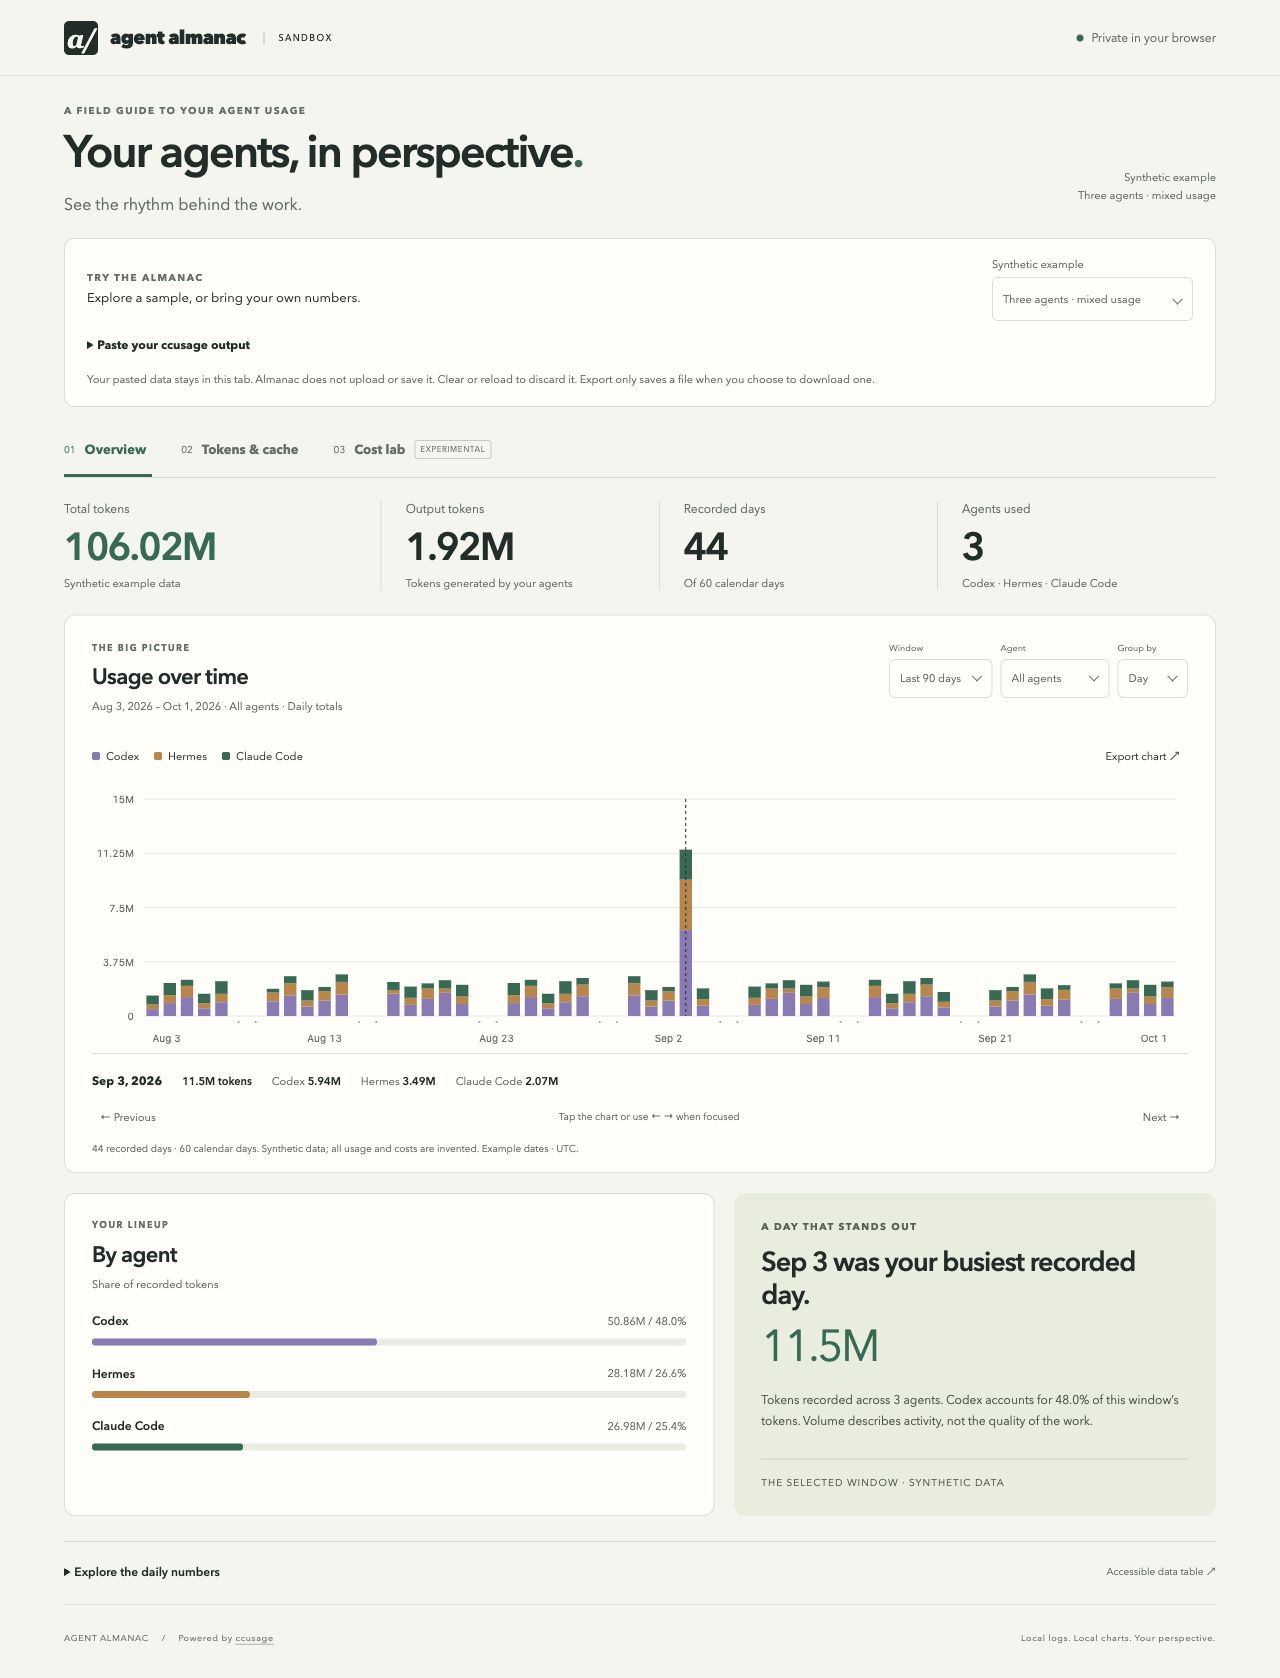
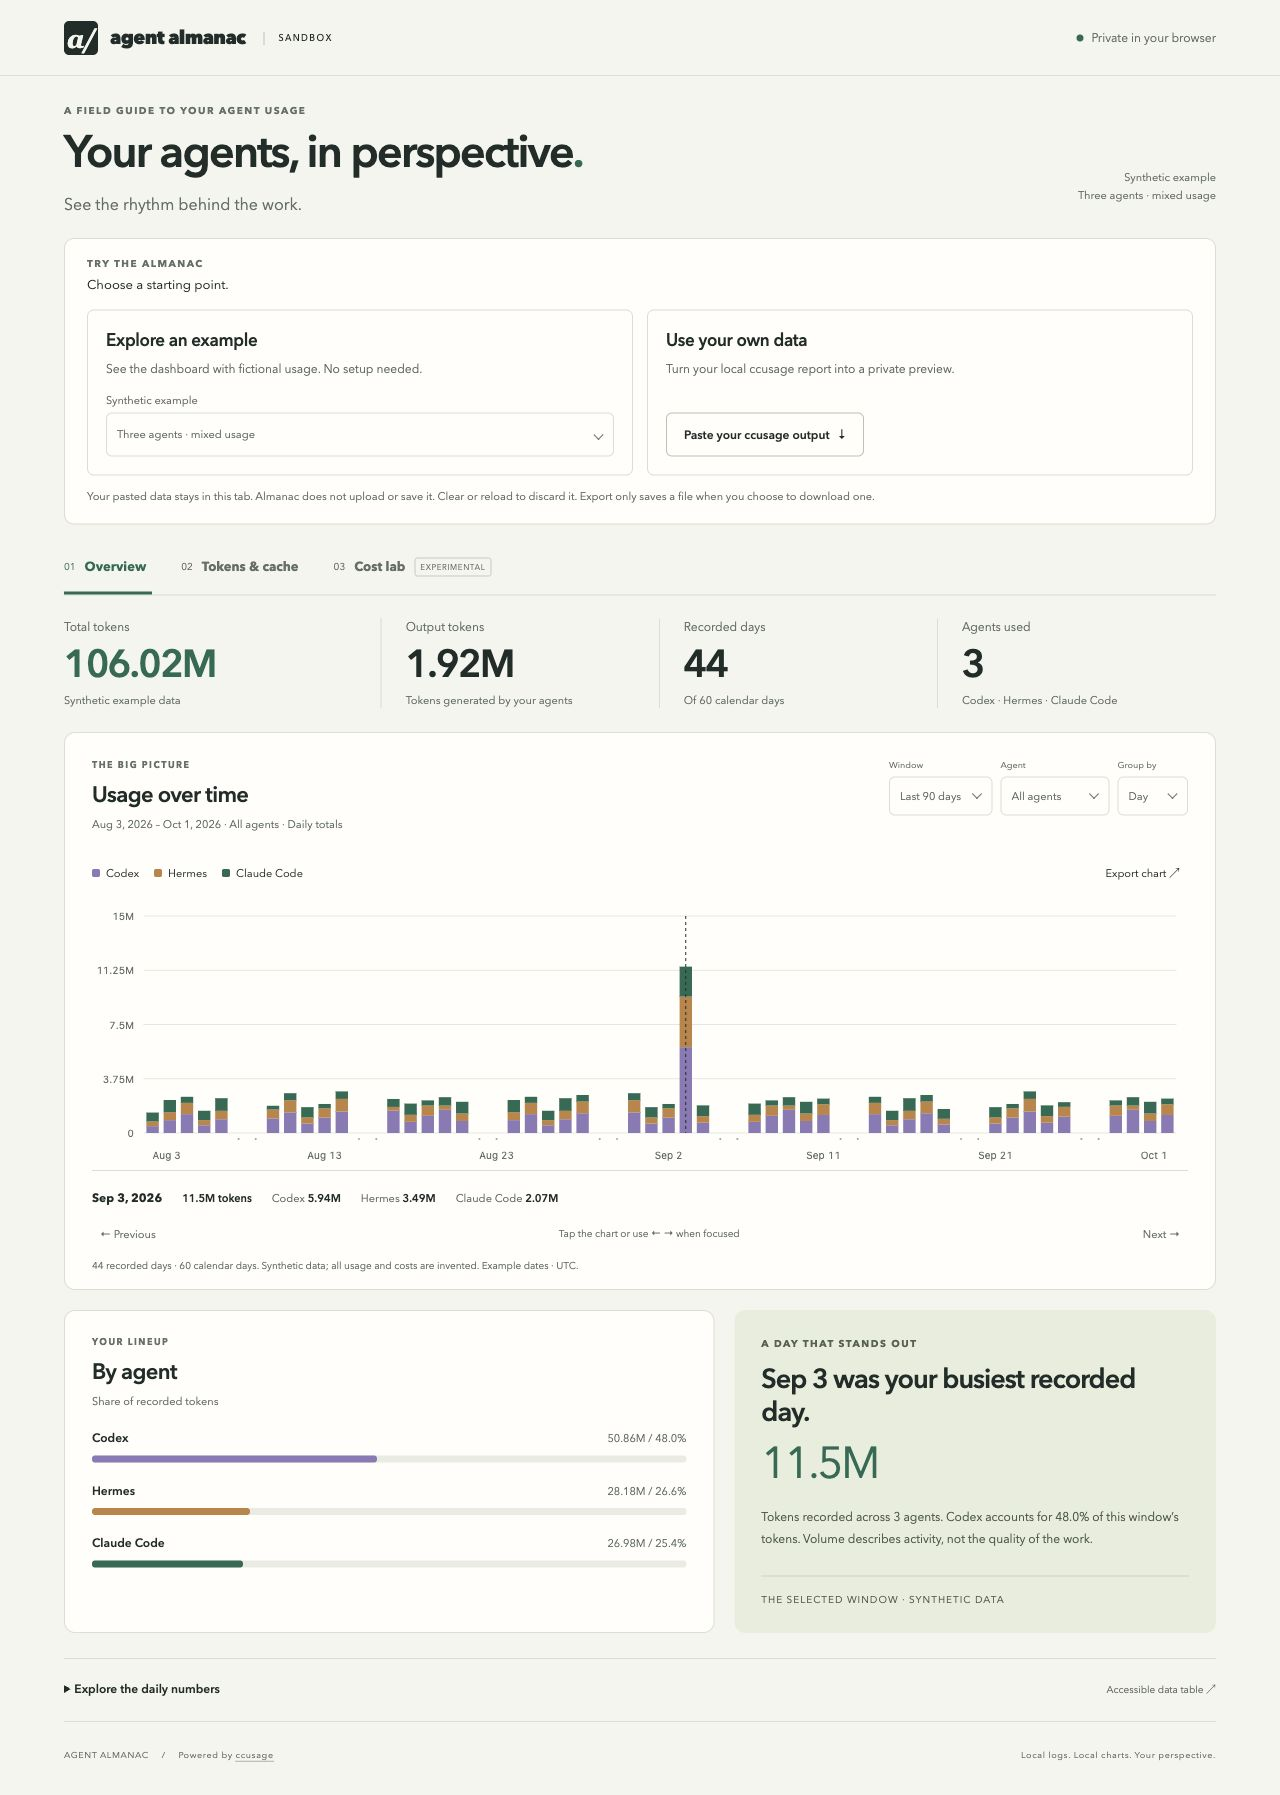
Improve sandbox onboarding and action feedback

diff --git a/test/sandbox.test.js b/test/sandbox.test.js
@@ -1,0 +1,119 @@
+import { afterEach, test, expect } from 'bun:test';
+import { readFileSync } from 'node:fs';
+import { setupSandbox } from '../public/sandbox.js';
+
+const html = readFileSync(new URL('../public/index.html', import.meta.url), 'utf8');
+const originalGlobals = new Map(['document', 'window', 'Option', 'navigator'].map(key => [key, Object.getOwnPropertyDescriptor(globalThis, key)]));
+
+afterEach(() => {
+  for (const [key, descriptor] of originalGlobals) {
+    if (descriptor) Object.defineProperty(globalThis, key, descriptor);
+    else delete globalThis[key];
+  }
+});
+
+function mount(clipboard, platform = 'Linux') {
+  // Fake only browser boundaries; report parsing and sandbox event handlers stay real.
+  const nodes = new Map([...html.matchAll(/\bid="([^"]+)"/g)].map(([, id]) => [id, {
+    value: '', hidden: true, textContent: '', attributes: {}, listeners: {},
+    addEventListener(type, listener) { this.listeners[type] = listener; },
+    replaceChildren(...options) { this.value = options[0]?.value ?? ''; },
+    setAttribute(key, value) { this.attributes[key] = value; },
+    focus() { this.focused = true; },
+    select() { this.selected = true; },
+  }]));
+  nodes.get('ccusage-command').value = html.match(/id="ccusage-command"[^>]*>([^<]+)<\/textarea>/)[1];
+  for (const [key, value] of Object.entries({
+    document: { getElementById: id => nodes.get(id) },
+    window: { addEventListener() {} },
+    Option: class { constructor(label, value) { this.label = label; this.value = value; } },
+    navigator: { clipboard, platform },
+  })) Object.defineProperty(globalThis, key, { configurable: true, writable: true, value });
+  setupSandbox(() => {});
+  return { node: id => nodes.get(id), click: id => nodes.get(id).listeners.click(), change: (id, value) => { nodes.get(id).value = value; nodes.get(id).listeners.change(); } };
+}
+
+test('the paste choice opens the form with keyboard focus and reports its expanded state', () => {
+  const ui = mount({});
+  expect(html).toContain('aria-controls="paste-panel"');
+  ui.click('paste-toggle');
+  expect(ui.node('paste-panel').hidden).toBe(false);
+  expect(ui.node('paste-toggle').attributes['aria-expanded']).toBe('true');
+  expect(ui.node('paste-heading').focused).toBe(true);
+  ui.click('paste-toggle');
+  expect(ui.node('paste-panel').hidden).toBe(true);
+  expect(ui.node('paste-toggle').attributes['aria-expanded']).toBe('false');
+});
+
+test('copy sends the visible daily JSON command to the clipboard and confirms success', async () => {
+  let copied;
+  const ui = mount({ writeText: async value => { copied = value; } });
+  await ui.click('copy-command');
+  expect(copied).toBe('bunx ccusage daily --json --by-agent');
+  expect(ui.node('copy-command').textContent).toBe('Copied!');
+  expect(ui.node('command-status').textContent).toContain('Command copied.');
+});
+
+test('a rejected clipboard write selects the command and explains manual copying', async () => {
+  let denied = false;
+  const ui = mount({ writeText: async () => { if (denied) throw new Error('Clipboard denied'); } });
+  await ui.click('copy-command');
+  denied = true;
+  await ui.click('copy-command');
+  expect(ui.node('copy-command').textContent).toBe('Copy command');
+  expect(ui.node('ccusage-command').focused).toBe(true);
+  expect(ui.node('ccusage-command').selected).toBe(true);
+  expect(ui.node('command-status').textContent).toContain('Ctrl+C');
+});
+
+test.each([
+  ['MacIntel', 'mac', ' | pbcopy'],
+  ['Win32', 'windows', ' | Set-Clipboard'],
+  ['Linux x86_64', 'plain', ''],
+])('the initial terminal command matches %s', async (platform, option, suffix) => {
+  let copied;
+  const ui = mount({ writeText: async value => { copied = value; } }, platform);
+  expect(ui.node('command-platform').value).toBe(option);
+  await ui.click('copy-command');
+  expect(copied).toBe('bunx ccusage daily --json --by-agent' + suffix);
+});
+
+test('changing terminals updates the command and clears stale copy feedback', async () => {
+  const ui = mount({ writeText: async () => {} }, 'MacIntel');
+  await ui.click('copy-command');
+  ui.change('command-platform', 'windows');
+  expect(ui.node('ccusage-command').value).toEndWith(' | Set-Clipboard');
+  expect(ui.node('command-status').textContent).toBe('');
+  expect(ui.node('copy-command').textContent).toBe('Copy command');
+  expect(ui.node('command-help').textContent).toContain('straight to your clipboard');
+  ui.change('command-platform', 'plain');
+  expect(ui.node('ccusage-command').value).toBe('bunx ccusage daily --json --by-agent');
+  expect(ui.node('command-help').textContent).toContain('copy the complete JSON output');
+});
+
+test('build confirms success, resets on editing, and does not claim success for invalid input', () => {
+  const ui = mount({});
+  ui.click('use-example');
+  ui.click('preview-paste');
+  expect(ui.node('preview-paste').textContent).toBe('Built dashboard!');
+  expect(ui.node('import-status').textContent).toContain('✓ Dashboard updated');
+
+  ui.node('paste-report').value = '{invalid';
+  ui.node('paste-report').listeners.input();
+  expect(ui.node('preview-paste').textContent).toBe('Build my dashboard');
+  expect(ui.node('import-status').textContent).toBe('');
+  ui.click('preview-paste');
+  expect(ui.node('preview-paste').textContent).toBe('Build my dashboard');
+  expect(ui.node('import-error').hidden).toBe(false);
+});
+
+test('refilling, clearing, and switching examples reset the built label', () => {
+  const ui = mount({});
+  for (const reset of [() => ui.click('use-example'), () => ui.click('clear-paste'), () => ui.change('example', 'solo')]) {
+    ui.click('use-example');
+    ui.click('preview-paste');
+    expect(ui.node('preview-paste').textContent).toBe('Built dashboard!');
+    reset();
+    expect(ui.node('preview-paste').textContent).toBe('Build my dashboard');
+  }
+});

diff --git a/public/index.html b/public/index.html
@@ -20,15 +20,35 @@
       <div class="source-block"><p id="source-status" role="status">Reading your local report…</p><button id="refresh" class="button">↻ <span>Refresh data</span></button></div>
     </section>
     <section id="sandbox-controls" class="sandbox-controls" aria-label="Sandbox inputs" hidden>
-      <div class="sandbox-top"><div><p class="eyebrow">TRY THE ALMANAC</p><p>Explore a sample, or bring your own numbers.</p></div><label for="example">Synthetic example<select id="example"></select></label></div>
-      <details id="paste-panel"><summary>Paste your ccusage output</summary>
-        <p id="paste-help">Use <code>ccusage daily --json --by-agent</code> for full precision, or paste a complete wide daily terminal table. Monthly, session, and compact tables are not supported.</p>
-        <label for="paste-report">Daily report</label>
+      <p class="eyebrow">TRY THE ALMANAC</p>
+      <p>Choose a starting point.</p>
+      <div class="sandbox-choices">
+        <section class="sandbox-choice" aria-labelledby="example-heading">
+          <h2 id="example-heading">Explore an example</h2>
+          <p>See the dashboard with fictional usage. No setup needed.</p>
+          <label class="example-select" for="example">Synthetic example<select id="example"></select></label>
+        </section>
+        <section class="sandbox-choice" aria-labelledby="own-data-heading">
+          <h2 id="own-data-heading">Use your own data</h2>
+          <p>Turn your local ccusage report into a private preview.</p>
+          <button id="paste-toggle" class="button" aria-expanded="false" aria-controls="paste-panel">Paste your ccusage output <span aria-hidden="true">↓</span></button>
+        </section>
+      </div>
+      <div id="paste-panel" hidden>
+        <h3 id="paste-heading" tabindex="-1">1. Get your daily report</h3>
+        <label class="command-platform" for="command-platform">Your terminal<select id="command-platform"><option value="mac">macOS · Terminal</option><option value="windows">Windows · PowerShell</option><option value="plain">Other · print JSON</option></select></label>
+        <p id="command-help" class="subtle">Run this in your terminal to get JSON with an agent breakdown.</p>
+        <div class="command-row"><textarea id="ccusage-command" aria-label="Terminal command for a daily JSON report" readonly rows="2" spellcheck="false">bunx ccusage daily --json --by-agent</textarea><button id="copy-command" class="button">Copy command</button></div>
+        <p id="command-status" class="subtle" role="status"></p>
+        <p class="subtle">If you installed the <code>ccusage</code> command globally, you can omit <code>bunx</code>. <a href="https://ccusage.com/guide/json-output" target="_blank" rel="noreferrer">ccusage JSON docs ↗</a></p>
+        <p id="paste-help">After the command finishes successfully, paste the complete JSON report below. Complete wide daily terminal tables also work; monthly, session, and compact tables are not supported.</p>
+        <h3><label for="paste-report">2. Paste your report</label></h3>
         <textarea id="paste-report" rows="8" spellcheck="false" autocomplete="off" autocapitalize="off" aria-describedby="paste-help paste-privacy" placeholder="Paste JSON or a wide ccusage daily table here…"></textarea>
-        <div class="paste-actions"><button id="preview-paste" class="button">Build my dashboard</button><button id="use-example" class="text-button">Fill with example JSON</button><button id="clear-paste" class="text-button">Clear my data</button></div>
+        <div class="paste-actions"><button id="preview-paste" class="button">Build my dashboard</button><button id="use-example" class="text-button">Fill with selected synthetic example</button><button id="clear-paste" class="text-button">Clear my data</button></div>
+        <p id="import-status" class="subtle" role="status"></p>
         <p id="import-error" class="notice error" role="alert" hidden></p>
-      </details>
-      <p id="paste-privacy" class="subtle">Your pasted data stays in this tab. Almanac does not upload or save it. Clear or reload to discard it. Export only saves a file when you choose to download one.</p>
+        <p id="paste-privacy" class="subtle">Your pasted data stays in this tab. Almanac does not upload or save it. Clear or reload to discard it. Export only saves a file when you choose to download one.</p>
+      </div>
     </section>
     <nav class="views" aria-label="Dashboard views">
       <button data-view="overview" aria-current="page">01 <span>Overview</span></button>

diff --git a/public/sandbox.js b/public/sandbox.js
@@ -5,24 +5,74 @@ export function setupSandbox(show) {
   const select = document.getElementById('example');
   const input = document.getElementById('paste-report');
   const error = document.getElementById('import-error');
+  const status = document.getElementById('import-status');
+  const buildButton = document.getElementById('preview-paste');
+  input.addEventListener('input', () => {
+    buildButton.textContent = 'Build my dashboard';
+    status.textContent = '';
+  });
+  const command = document.getElementById('ccusage-command');
+  const commandFeedback = document.getElementById('command-status');
+  const copyButton = document.getElementById('copy-command');
+  const terminal = document.getElementById('command-platform');
+  const baseCommand = command.value;
+  const commands = { mac: `${baseCommand} | pbcopy`, windows: `${baseCommand} | Set-Clipboard`, plain: baseCommand };
+  terminal.value = /Mac/.test(navigator.platform) ? 'mac' : /Win/.test(navigator.platform) ? 'windows' : 'plain';
+  const updateCommand = () => {
+    command.value = commands[terminal.value] ?? baseCommand;
+    commandFeedback.textContent = '';
+    copyButton.textContent = 'Copy command';
+    document.getElementById('command-help').textContent = terminal.value === 'plain'
+      ? 'Run this in your terminal, then copy the complete JSON output.'
+      : 'Run this in your terminal. On success, the JSON goes straight to your clipboard, so there is no report to scroll through. Return here and paste it below.';
+  };
+  terminal.addEventListener('change', updateCommand);
+  updateCommand();
+  const pastePanel = document.getElementById('paste-panel');
+  const pasteToggle = document.getElementById('paste-toggle');
+  pasteToggle.addEventListener('click', () => {
+    pastePanel.hidden = !pastePanel.hidden;
+    pasteToggle.setAttribute('aria-expanded', String(!pastePanel.hidden));
+    if (!pastePanel.hidden) document.getElementById('paste-heading').focus();
+  });
+  copyButton.addEventListener('click', async () => {
+    try {
+      await navigator.clipboard.writeText(command.value);
+      copyButton.textContent = 'Copied!';
+      commandFeedback.textContent = 'Command copied. Run it in your terminal, then paste the report below.';
+    } catch {
+      copyButton.textContent = 'Copy command';
+      command.focus();
+      command.select();
+      commandFeedback.textContent = 'Automatic copy is unavailable. Press ⌘C (Mac) or Ctrl+C to copy the selected command.';
+    }
+  });
   select.replaceChildren(...examples.map(example => new Option(example.label, example.id)));
   const sample = () => {
     const example = examples.find(item => item.id === select.value) ?? examples[0];
     input.value = '';
+    buildButton.textContent = 'Build my dashboard';
     error.hidden = true;
+    status.textContent = '';
     show({ ...parseUsage(JSON.stringify(example.report)), source: 'example', label: example.label, timezone: 'Example dates · UTC', pricing: 'synthetic' });
   };
   select.addEventListener('change', sample);
   document.getElementById('clear-paste').addEventListener('click', sample);
   document.getElementById('use-example').addEventListener('click', () => {
     input.value = JSON.stringify(examples.find(item => item.id === select.value).report, null, 2);
+    buildButton.textContent = 'Build my dashboard';
     error.hidden = true;
+    status.textContent = 'Loaded the selected example’s JSON. Building it unchanged will show the same chart.';
   });
-  document.getElementById('preview-paste').addEventListener('click', () => {
+  buildButton.addEventListener('click', () => {
+    buildButton.textContent = 'Build my dashboard';
+    status.textContent = '';
     try {
       const report = parseUsage(input.value);
       show({ ...report, source: 'pasted', label: 'Your pasted report', timezone: 'Report dates · timezone not supplied', pricing: 'imported' });
       error.hidden = true;
+      buildButton.textContent = 'Built dashboard!';
+      status.textContent = '✓ Dashboard updated from the report above.';
     } catch (cause) {
       error.textContent = cause.message;
       error.hidden = false;

diff --git a/public/style.css b/public/style.css
@@ -236,7 +236,7 @@ h2 {
   gap:5px;
   font-size:9px;
   color:var(--muted)}
-.filters label::after, .sandbox-top label::after {
+.filters label::after, .example-select::after, .command-platform::after {
   content:"";
   position:absolute;
   right:12px;
@@ -621,12 +621,26 @@ body {
   margin:0 0 20px;
   font-size:13px;
 }
-.sandbox-top { display:flex; align-items:center; justify-content:space-between; gap:18px; }
-.sandbox-top label { position:relative; }
-.sandbox-top .eyebrow { margin-bottom:5px; }
+.sandbox-controls > .eyebrow { margin-bottom:5px; }
+.sandbox-choices { display:grid; grid-template-columns:1fr 1fr; gap:14px; margin-top:16px; }
+.sandbox-choice { display:flex; flex-direction:column; align-items:flex-start; gap:8px; padding:18px; border:1px solid var(--line); border-radius:7px; background:#fff; }
+.sandbox-choice h2 { font-size:17px; letter-spacing:-.3px; }
+.sandbox-choice p { font-size:12px; line-height:1.6; color:var(--muted); margin-bottom:6px; }
+.sandbox-choice .example-select { position:relative; width:100%; margin-top:auto; }
+.sandbox-choice > button { margin-top:auto; }
+.sandbox-choice button[aria-expanded="true"] { background:var(--lime); border-color:var(--green); }
 .sandbox-controls label { display:block; font-size:11px; color:var(--muted); }
-.sandbox-controls select { display:block; max-width:100%; margin-top:5px; min-height:44px; }
-.sandbox-controls summary { cursor:pointer; padding:16px 0 5px; font-size:12px; font-weight:650; }
+.sandbox-controls select { display:block; width:100%; max-width:100%; margin-top:5px; min-height:44px; }
+#paste-panel { border-top:1px solid var(--line); padding-top:20px; margin-top:20px; }
+#paste-panel h3, #paste-panel h3 label { font-size:14px; font-weight:650; color:var(--ink); margin:0; }
+.command-row { display:flex; gap:10px; margin-top:12px; }
+.command-platform { position:relative; max-width:260px; margin:12px 0; }
+#ccusage-command { flex:1; min-width:0; min-height:44px; field-sizing:content; border:1px solid var(--line); border-radius:6px; background:var(--paper); padding:12px; color:var(--ink); font:12px/1.5 ui-monospace,monospace; resize:none; overflow-wrap:anywhere; }
+#ccusage-command:focus-visible, #paste-heading:focus-visible { outline:3px solid var(--green); outline-offset:3px; }
+.command-row button { flex-shrink:0; align-self:center; }
+#copy-command, #preview-paste { justify-content:center; }
+#copy-command { width:144px; white-space:nowrap; }
+#preview-paste { width:160px; }
 #paste-help { font-size:12px; line-height:1.7; margin:12px 0; }
 #paste-report { width:100%; margin-top:6px; padding:12px; border:1px solid var(--line); border-radius:6px; resize:vertical; font:12px/1.6 ui-monospace,monospace; color:var(--ink); background:var(--paper); }
 #paste-report:focus-visible { outline:3px solid var(--green); outline-offset:2px; }
@@ -634,6 +648,8 @@ body {
 #paste-privacy { margin-top:12px; }
 @media(max-width:600px) {
   .sandbox-controls { padding:15px; }
-  .sandbox-top { align-items:stretch; flex-direction:column; gap:12px; }
-  .sandbox-controls select { width:100%; }
+  .sandbox-choices { grid-template-columns:1fr; }
+  .sandbox-choice { padding:15px; }
+  .command-row { flex-direction:column; align-items:stretch; }
+  .command-row button { align-self:flex-start; }
 }

diff --git a/docs/clean-install.md b/docs/clean-install.md
@@ -42,7 +42,11 @@ bun run preview:sandbox
 Open http://127.0.0.1:4319/agent-almanac/.
 
 - [ ] All five synthetic examples work, including empty data and unknown pricing.
-- [ ] Open “Paste your ccusage output,” fill it with example JSON, and build the preview.
+- [ ] “Explore an example” and “Use your own data” appear side by side on desktop and stack on a narrow screen. “Paste your ccusage output” opens the command and paste form.
+- [ ] The terminal selector defaults to your platform and can be changed manually. macOS ends the command with `| pbcopy`; Windows PowerShell uses `| Set-Clipboard`; Other prints JSON without a clipboard pipe.
+- [ ] Copy command copies the entire displayed command. If browser clipboard access is blocked, the command is selected for manual copying and an explanation appears.
+- [ ] With ccusage available, run the selected command in your own terminal. On macOS/Windows, successful output should go to the clipboard instead of printing a long report. Return and paste it into the sandbox. Do not send the real report with your test results.
+- [ ] Open “Paste your ccusage output,” click “Fill with selected synthetic example,” and build the preview. The chart should match the selected example; a success message confirms the report was applied.
 - [ ] Paste invalid JSON; an error appears and the previous chart remains visible.
 - [ ] If available, paste a complete wide daily table; models, agent totals, and dates remain correct.
 - [ ] Open browser developer tools → Network, clear the log after the page loads, then paste and preview. No report or API request should occur.

diff --git a/README.md b/README.md
@@ -16,7 +16,7 @@ Turn [ccusage](https://ccusage.com/) reports into a local dashboard: see usage o
 bun run preview:sandbox
 ```
 
-Open http://127.0.0.1:4319/agent-almanac/. Pick a synthetic example or paste your own report. No local agent installation is needed for the sandbox; only Bun is needed for this local preview.
+Open http://127.0.0.1:4319/agent-almanac/. Choose **Explore an example** or **Use your own data**. The paste form selects a command for your terminal: macOS uses `bunx ccusage daily --json --by-agent | pbcopy`, and Windows PowerShell uses `bunx ccusage daily --json --by-agent | Set-Clipboard`. Both copy successful JSON output directly to your clipboard; return to the sandbox and paste it. You can also select plain JSON output for other terminals. No local agent installation is needed for the sandbox; only Bun is needed for this local preview.
 
 Supported paste formats:
 
